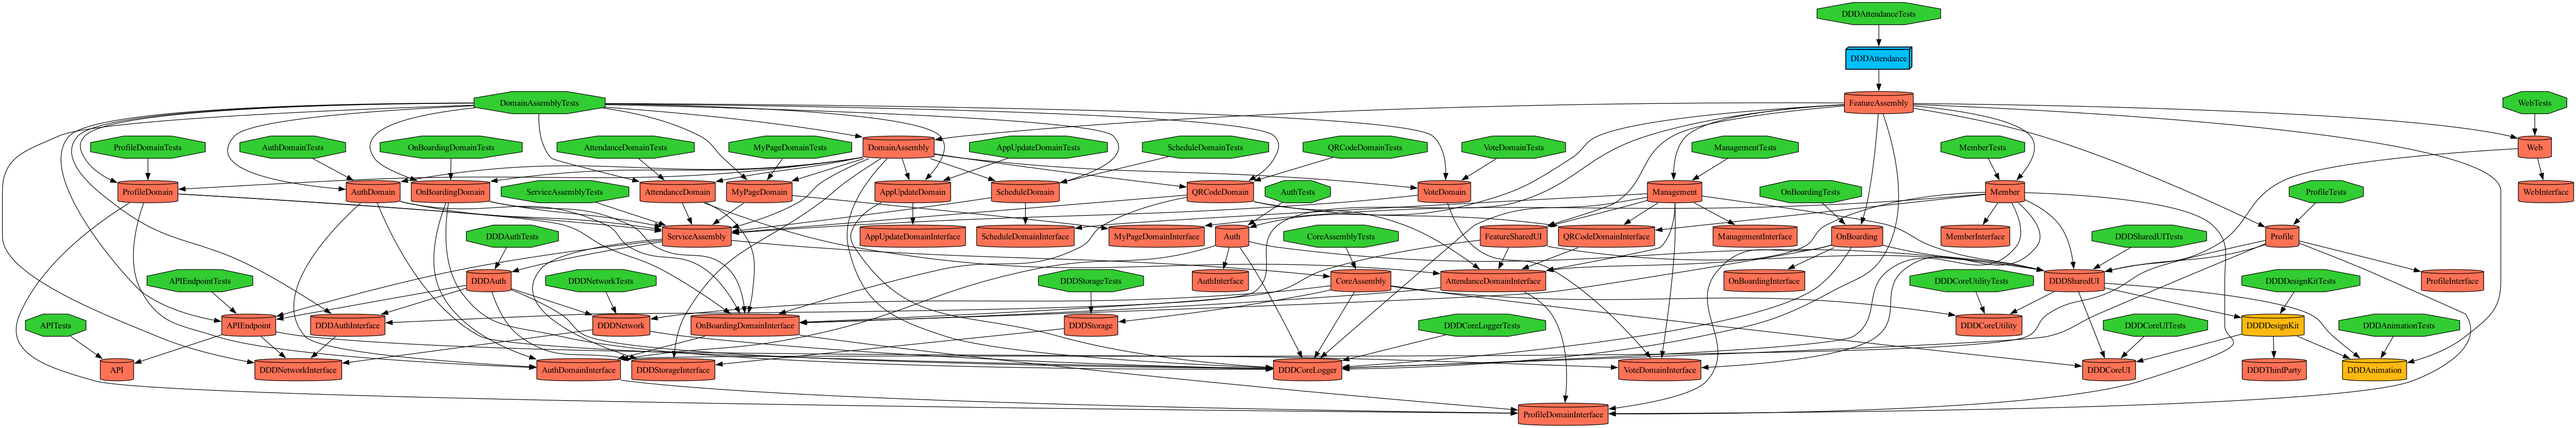
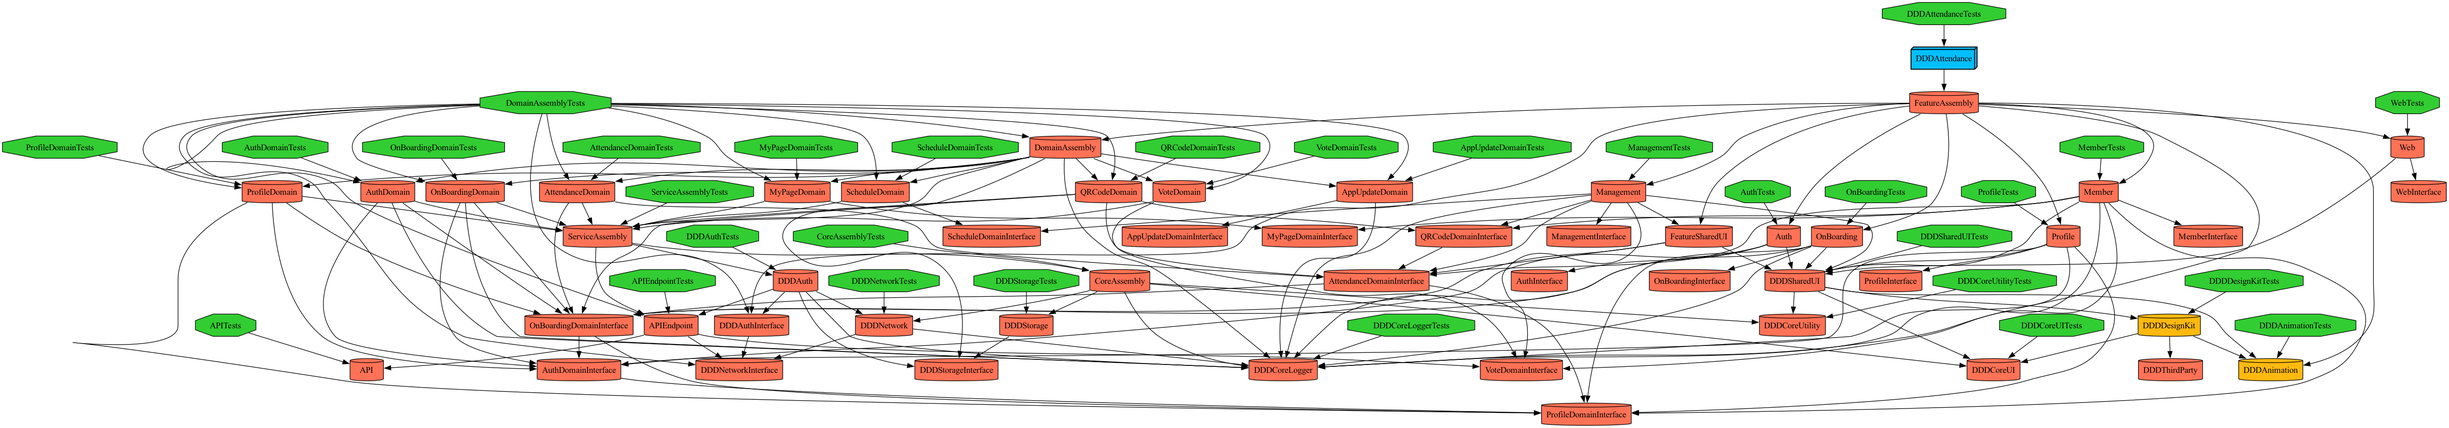
상위 계층이 Assembly 경계만 의존하도록 재수출을 정리
CoreAssembly가 핵심 계약을 재수출하고 ServiceAssembly와 FeatureAssembly의 중복 직접 간선을 제거했다.

Constraint: 상위 계층에서 기존 Core 및 UI 타입 접근 유지
Rejected: 각 상위 모듈에 동일한 Core 의존성을 반복 선언 | 그래프 간선과 빌드 계획이 다시 증가함
Confidence: medium
Scope-risk: moderate
Directive: Core 계약은 CoreAssembly를 통해, 공용 UI는 FeatureSharedUI를 통해 노출
Tested: tuist generate --no-open; ./make graph; git diff --check
Not-tested: 사용자 요청에 따라 시뮬레이터 빌드와 전체 테스트는 실행하지 않음

diff --git a/Projects/Feature/FeatureAssembly/Sources/Exported/FeatureAssemblyExported.swift b/Projects/Feature/FeatureAssembly/Sources/Exported/FeatureAssemblyExported.swift
@@ -6,12 +6,6 @@
 //
 
 @_exported import ComposableArchitecture
-@_exported import DDDCoreUtility
-@_exported import DDDCoreLogger
-@_exported import DDDAnimation
-@_exported import DDDDesignKit
-@_exported import DDDSharedUI
-@_exported import DDDAuthInterface
 @_exported import FeatureSharedUI
 @_exported import AppUpdateDomain
 @_exported import AttendanceDomain

diff --git a/Projects/Core/CoreAssembly/Sources/Exported/CoreAssemblyExported.swift b/Projects/Core/CoreAssembly/Sources/Exported/CoreAssemblyExported.swift
@@ -1,0 +1,12 @@
+//
+//  CoreAssemblyExported.swift
+//  CoreAssembly
+//
+//  Created by DDD on 9/3/26.
+//
+
+@_exported import DDDCoreLogger
+@_exported import DDDCoreUI
+@_exported import DDDCoreUtility
+@_exported import DDDNetworkInterface
+@_exported import DDDStorageInterface

diff --git a/Projects/Service/ServiceAssembly/Project.swift b/Projects/Service/ServiceAssembly/Project.swift
@@ -18,7 +18,6 @@ let project = Project.makeModule(
   settings: .moduleSettings,
   dependencies: [
     .core(.assembly),
-    .core(.storage, .interface),
     .service(.apiEndpoint),
     .service(.auth, .implementation),
     .SPM.dependencies

diff --git a/Projects/Core/CoreAssembly/Tests/Sources/CoreAssemblyTests.swift b/Projects/Core/CoreAssembly/Tests/Sources/CoreAssemblyTests.swift
@@ -5,8 +5,6 @@
 //  Created by DDD on 2026-09-02
 //
 
-import DDDNetworkInterface
-import DDDStorageInterface
 import Testing
 
 @testable import CoreAssembly
